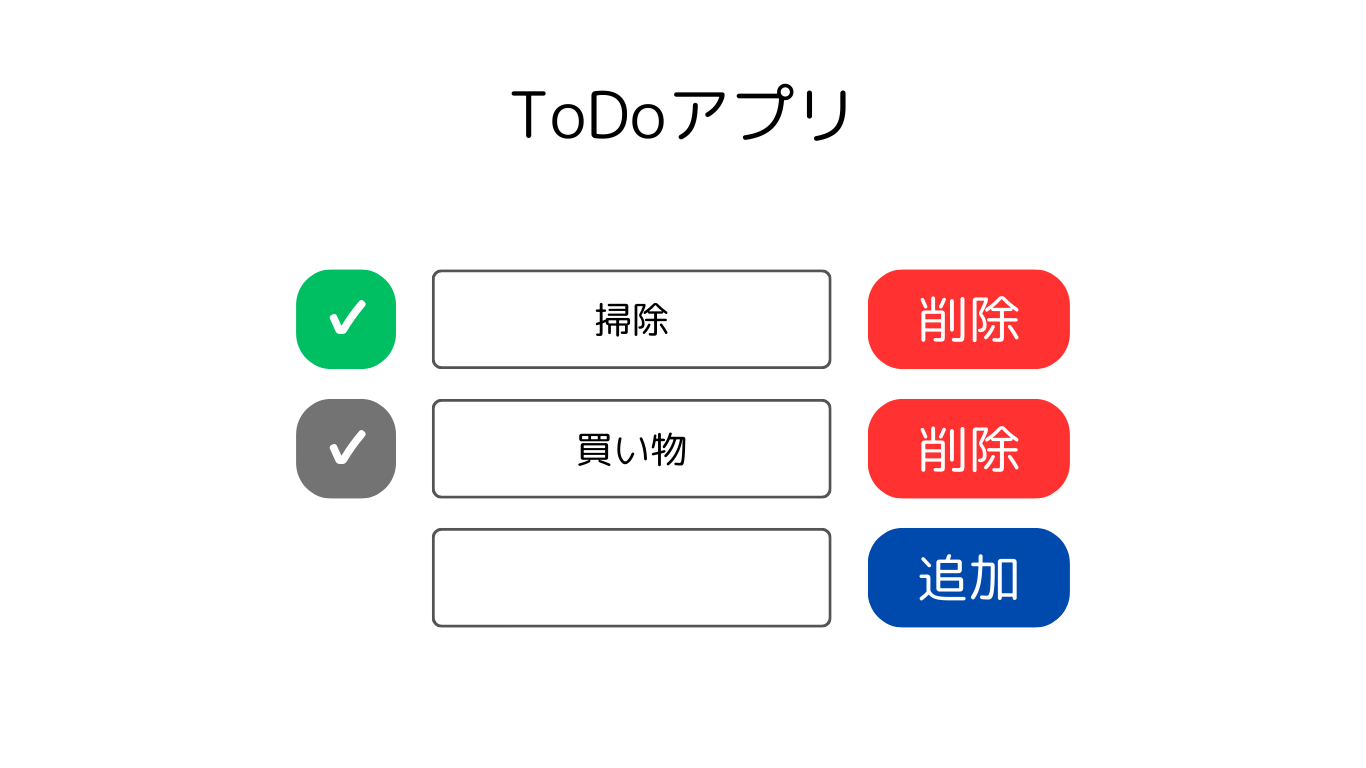
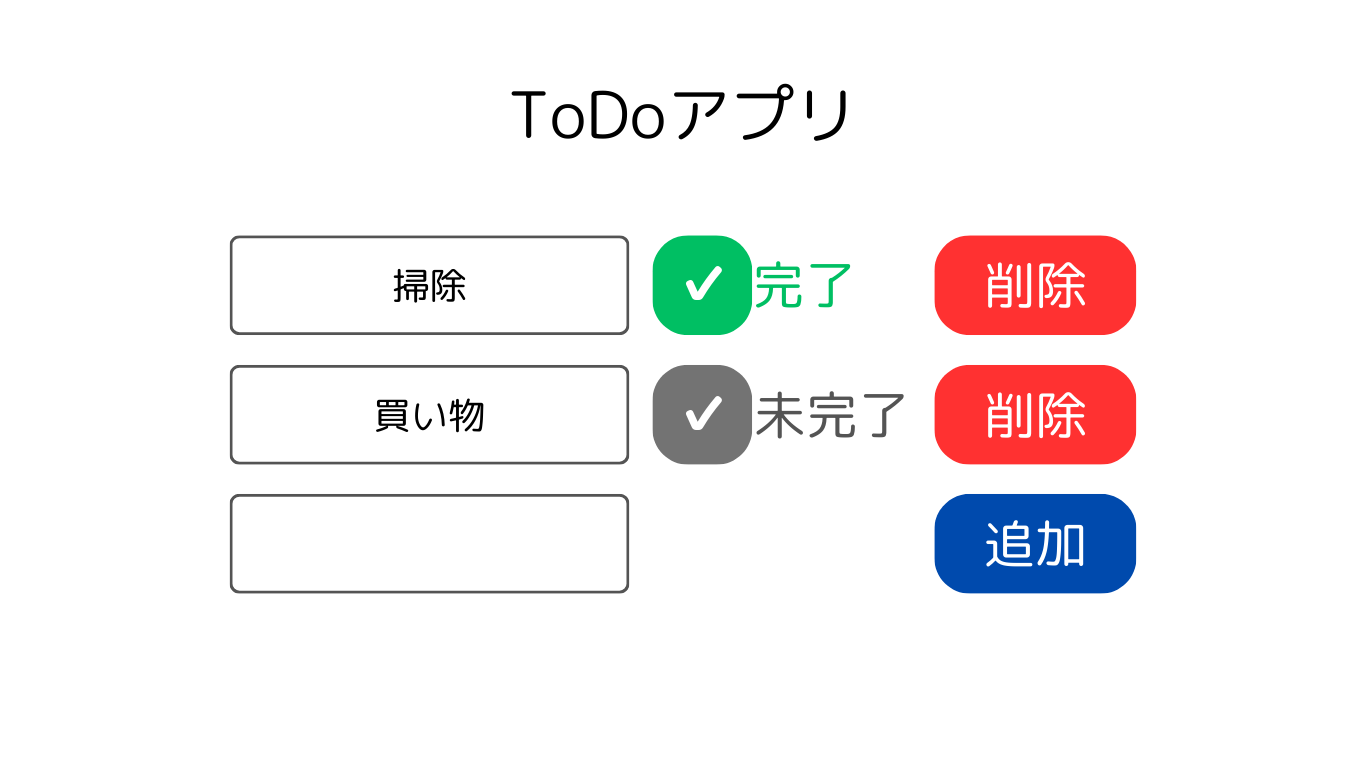
README.mdの編集

diff --git a/README.md b/README.md
@@ -1,8 +1,13 @@
-# Nuxt 3 Minimal Starter
+# ToDo app
+
+- [Nuxt 3 Minimal Starter (起動方法)](#nuxt-3-minimal-starter)
+- [制作メモ](#制作メモ)
+
+## Nuxt 3 Minimal Starter
 
 Look at the [Nuxt 3 documentation](https://nuxt.com/docs/getting-started/introduction) to learn more.
 
-## Setup
+### Setup
 
 Make sure to install the dependencies:
 
@@ -20,7 +25,7 @@ yarn install
 bun install
 ```
 
-## Development Server
+### Development Server
 
 Start the development server on `http://localhost:3000`:
 
@@ -38,7 +43,7 @@ yarn dev
 bun run dev
 ```
 
-## Production
+### Production
 
 Build the application for production:
 
@@ -73,3 +78,31 @@ bun run preview
 ```
 
 Check out the [deployment documentation](https://nuxt.com/docs/getting-started/deployment) for more information.
+
+## 制作メモ
+### 作業
+- デザイン案を考える。
+![デザイン](design.png)
+
+- Nuxt3の動作環境(Node.js - v18.0.0 or newer)に合わせてnode ver 18.18.2をインストール
+
+- nuxtプロジェクトの作成
+	- 画面上の指示に従って進める。ついでにtailwind cssもインストールした
+```bash
+$ npx nuxi@latest init <project-name>
+``` 
+- tailwind css 公式のガイドに従って設定
+- pinia公式ガイドに従ってpiniaをインストール＆設定
+- 公式ページや参考ページを見ながらデザイン案に合わせてページを作成
+- ページが完成
+![完成したページ](image.png)
+
+### 参考ページ
+- 参考：Nuxt3で簡単なToDoアプリを作っていく 〜リストレンダリング・イベントハンドリング〜
+	- https://qiita.com/nishikor/items/3ca4c42d14edecd5a06f
+- 参考：Nuxt3を使ってみる
+	- https://zenn.dev/bosushi/scraps/bd416abe14f6a4
+- HTML要素リファレンス
+	- https://developer.mozilla.org/ja/docs/Web/HTML/Element
+- display: noneを使ってCheckboxを実装するのはやめようね。
+	- https://qiita.com/Tksn07/items/fe778ed407da1bdc0d69
